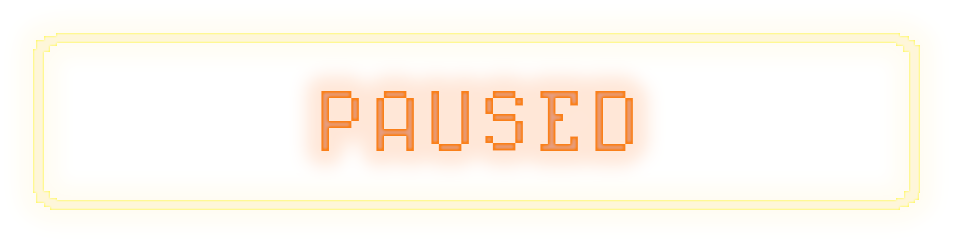
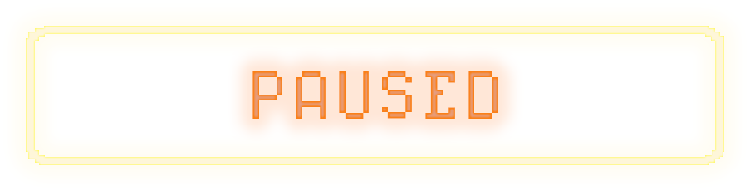
Add remaining animations to pause

diff --git a/core/src/edu/cornell/gdiac/nightbite/PauseController.java b/core/src/edu/cornell/gdiac/nightbite/PauseController.java
@@ -47,8 +47,17 @@ public class PauseController implements Screen, InputProcessor {
     private int[] posMenu = new int[]{0, 0};
     private int[] posWASD = new int[]{0, 0};
     private int[] posWASDSprite = new int[]{0, 0};
+    private int[] posMouse = new int[]{0, 0};
+    private int[] posEsc = new int[]{0, 0};
+    private int[] posM = new int[]{0, 0};
+    private int[] posR = new int[]{0, 0};
 
-    private int[] posMove = new int[]{0, 0};
+    private int[] posControlsText = new int[]{0, 0};
+    private int[] posMoveText = new int[]{0, 0};
+    private int[] posEscText = new int[]{0, 0};
+    private int[] posWhackText = new int[]{0, 0};
+    private int[] posMuteText = new int[]{0, 0};
+    private int[] posRestartText = new int[]{0, 0};
 
     /** Display font */
     private BitmapFont displayFont;
@@ -64,18 +73,22 @@ public class PauseController implements Screen, InputProcessor {
     private FilmStrip mouseTexture;
     private FilmStrip escTexture;
     private FilmStrip mTexture;
+    private FilmStrip rTexture;
 
 
-    /** How fast we change frames (one frame per 2 calls to update */
-    private static final float ANIMATION_SPEED = 0.5f;
+    /** How fast we change frames (one frame per 4 calls to update */
+    private static final float ANIMATION_SPEED = 0.25f;
     /** Maximum number of frames before resetting to 0 */
     private static final float MAX_FRAMES = 120f;
     /** Current animation frame */
     private float frame;
-    /** Number of frames in WASD animation */
+    /** Number of frames in animations */
     private int NUM_FRAMES_WASD;
-    /** Number of frames in WASD sprite animation */
     private int NUM_FRAMES_WASDSPRITE;
+    private int NUM_FRAMES_MOUSE;
+    private int NUM_FRAMES_ESC;
+    private int NUM_FRAMES_M;
+    private int NUM_FRAMES_R;
 
 
     public PauseController(GameCanvas canvas) {
@@ -89,7 +102,7 @@ public class PauseController implements Screen, InputProcessor {
 
         background = Assets.getTextureRegion("pause/Background.png");
         menuTexture = Assets.getTextureRegion("pause/MainMenuButton.png");
-        // pauseTexture = Assets.getTextureRegion("pause/PauseTitle.png");
+        pauseTexture = Assets.getTextureRegion("pause/PauseTitle.png");
         resumeTexture = Assets.getTextureRegion("pause/ResumeButton.png");
 
         // WARNING: MAGIC NUMBERS for frame sizes
@@ -97,6 +110,14 @@ public class PauseController implements Screen, InputProcessor {
         NUM_FRAMES_WASD = wasdTexture.getSize();
         wasdSpriteTexture = Assets.getFilmStrip("pause/WASDSprite_FS.png", 128, 128);
         NUM_FRAMES_WASDSPRITE = wasdSpriteTexture.getSize();
+        mouseTexture = Assets.getFilmStrip("pause/Mouse_FS.png", 78, 100);
+        NUM_FRAMES_MOUSE = mouseTexture.getSize();
+        escTexture = Assets.getFilmStrip("pause/esc_FS.png", 48, 53);
+        NUM_FRAMES_ESC = escTexture.getSize();
+        mTexture = Assets.getFilmStrip("pause/M_FS.png", 48, 53);
+        NUM_FRAMES_M = mTexture.getSize();
+        rTexture = Assets.getFilmStrip("pause/R_FS.png", 48, 53);
+        NUM_FRAMES_R = rTexture.getSize();
     }
 
     /** Sets this controller's screen listener */
@@ -112,8 +133,12 @@ public class PauseController implements Screen, InputProcessor {
             frame = 0f;
         }
 
-        ((FilmStrip) wasdTexture).setFrame(((int) frame) % NUM_FRAMES_WASD);
-        ((FilmStrip) wasdSpriteTexture).setFrame(((int) frame) % NUM_FRAMES_WASDSPRITE);
+        wasdTexture.setFrame(((int) frame) % NUM_FRAMES_WASD);
+        wasdSpriteTexture.setFrame(((int) frame) % NUM_FRAMES_WASDSPRITE);
+        mouseTexture.setFrame(((int) frame) % NUM_FRAMES_MOUSE);
+        escTexture.setFrame(((int) frame) % NUM_FRAMES_ESC);
+        mTexture.setFrame(((int) frame) % NUM_FRAMES_M);
+        rTexture.setFrame(((int) frame) % NUM_FRAMES_R);
     }
 
     /** Draw UI assets */
@@ -125,8 +150,9 @@ public class PauseController implements Screen, InputProcessor {
         // Draw buttons
         Color tintMenu = (pressStateMenu == 1 ? Color.GRAY: Color.WHITE);
         Color tintResume = (pressStateResume == 1 ? Color.GRAY: Color.WHITE);
-        canvas.draw(menuTexture, tintMenu, 0, 0,
-                    posMenu[0], posMenu[1], 0, scale, scale);
+        canvas.draw(pauseTexture, Color.WHITE,Assets.getTextureCenterX(pauseTexture), Assets.getTextureCenterY(pauseTexture),
+                    posTitle[0], posTitle[1], 0, scale, scale);
+        canvas.draw(menuTexture, tintMenu, 0, 0, posMenu[0], posMenu[1], 0, scale, scale);
         canvas.draw(resumeTexture, tintResume, Assets.getTextureCenterX(resumeTexture), Assets.getTextureCenterY(resumeTexture),
                     posResume[0], posResume[1], 0, scale, scale);
 
@@ -135,9 +161,22 @@ public class PauseController implements Screen, InputProcessor {
                     posWASD[0], posWASD[1], 0, scale, scale);
         canvas.draw(wasdSpriteTexture, Color.WHITE, Assets.getTextureCenterX(wasdSpriteTexture), Assets.getTextureCenterY(wasdSpriteTexture),
                     posWASDSprite[0], posWASDSprite[1], 0, scale, scale);
+        canvas.draw(mouseTexture, Color.WHITE, Assets.getTextureCenterX(mouseTexture), Assets.getTextureCenterY(mouseTexture),
+                    posMouse[0], posMouse[1], 0, scale, scale);
+        canvas.draw(escTexture, Color.WHITE, Assets.getTextureCenterX(escTexture), escTexture.getRegionHeight()-15,  // hardcode origin to almost top left
+                    posEsc[0], posEsc[1], 0, scale, scale);
+        canvas.draw(mTexture, Color.WHITE, Assets.getTextureCenterX(mTexture), mTexture.getRegionHeight()-15,
+                    posM[0], posM[1], 0, scale, scale);
+        canvas.draw(rTexture, Color.WHITE, Assets.getTextureCenterX(rTexture), rTexture.getRegionHeight()-15,
+                    posR[0], posR[1], 0, scale, scale);
 
         // Draw text
-        canvas.drawText("Move", displayFont, posMove[0], posMove[1]);
+        canvas.drawTextCentered("Controls", displayFont, posControlsText[1]);
+        canvas.drawText("Move", displayFont, posMoveText[0], posMoveText[1]);
+        canvas.drawText("Pause", displayFont, posEscText[0], posEscText[1]);
+        canvas.drawText("Whack", displayFont, posWhackText[0], posWhackText[1]);
+        canvas.drawText("Mute", displayFont, posMuteText[0], posMuteText[1]);
+        canvas.drawText("Restart Level", displayFont, posRestartText[0], posRestartText[1]);
 
         canvas.end();
     }
@@ -200,7 +239,7 @@ public class PauseController implements Screen, InputProcessor {
     }
 
     /**
-     * Sets the asset location references on resize
+     * Sets the asset location references on resize and start
      */
     @Override
     public void resize(int width, int height) {
@@ -209,23 +248,56 @@ public class PauseController implements Screen, InputProcessor {
         scale = Math.max(sx, sy);
         heightY = height;
 
+        int row1 = height * 9/16;
+        int row2 = height * 7/16;
+        int row3 = height * 5/16;
+
+        int col1 = width / 4;
+        int col2 = width / 3;
+        int col3 = width / 2;
+        int col4 = width * 19/32;
+        int col5 = width * 21/32;
+
         // Top left corner
         posMenu[0] = width / 16;
         posMenu[1] = height * 14/16;
 
-        // Bottom middle
+        // Bottom center
         posResume[0] = width / 2;
-        posResume[1] = height / 4;
+        posResume[1] = height / 8;
 
-        // Tutorial images
-        posWASD[0] = width / 4;
-        posWASD[1] = height * 3/4;
-        posWASDSprite[0] = width / 2;
-        posWASDSprite[1] = height * 3/4;
+        // Top center
+        posTitle[0] = width / 2;
+        posTitle[1] = height * 7/8;
+        posControlsText[1] = height * 7/32; // offset from center y
 
-        // Tutorial text
-        posMove[0] = width / 3;
-        posMove[1] = height * 3/4;
+        // Row 1, left to right
+        posWASD[0] = col1;
+        posWASD[1] = row1;
+        posMoveText[0] = col2;
+        posMoveText[1] = row1;
+        posWASDSprite[0] = col3;
+        posWASDSprite[1] = row1;
+        posEsc[0] = col4;
+        posEsc[1] = row1;
+        posEscText[0] = col5;
+        posEscText[1] = row1;
+
+        // Row 2, left to right
+        posMouse[0] = col1;
+        posMouse[1] = row2;
+        posWhackText[0] = col2;
+        posWhackText[1] = row2;
+        posM[0] = col4;
+        posM[1] = row2;
+        posMuteText[0] = col5;
+        posMuteText[1] = row2;
+
+        // Row 3, left to right
+        posR[0] = col4;
+        posR[1] = row3;
+        posRestartText[0] = col5;
+        posRestartText[1] = row3;
     }
 
     /** Default stubs */
